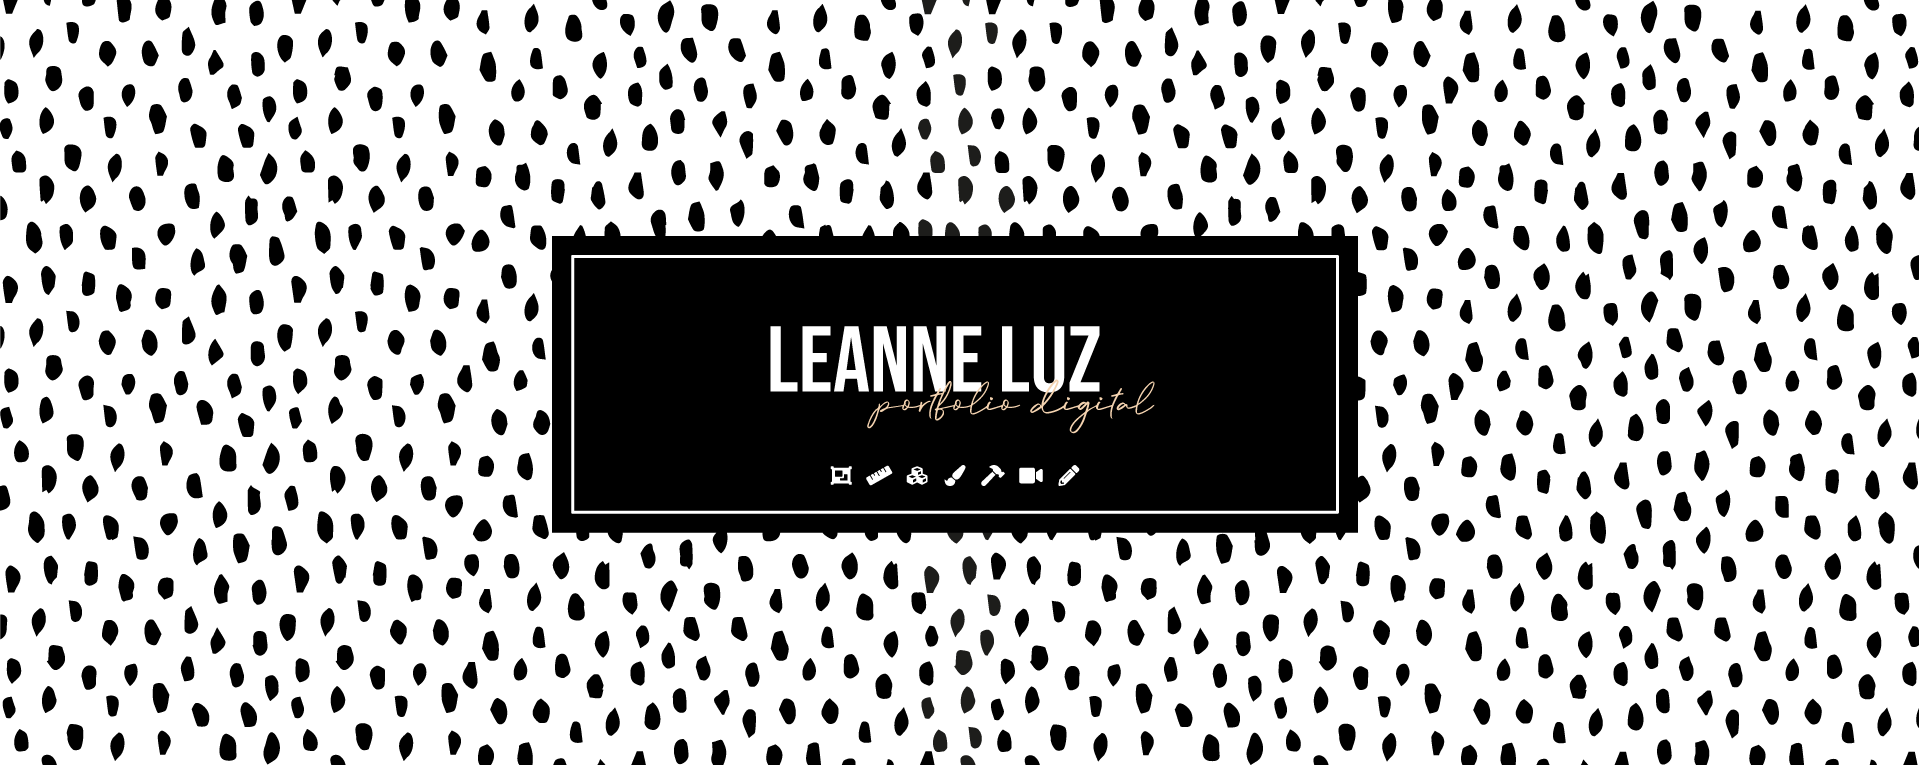
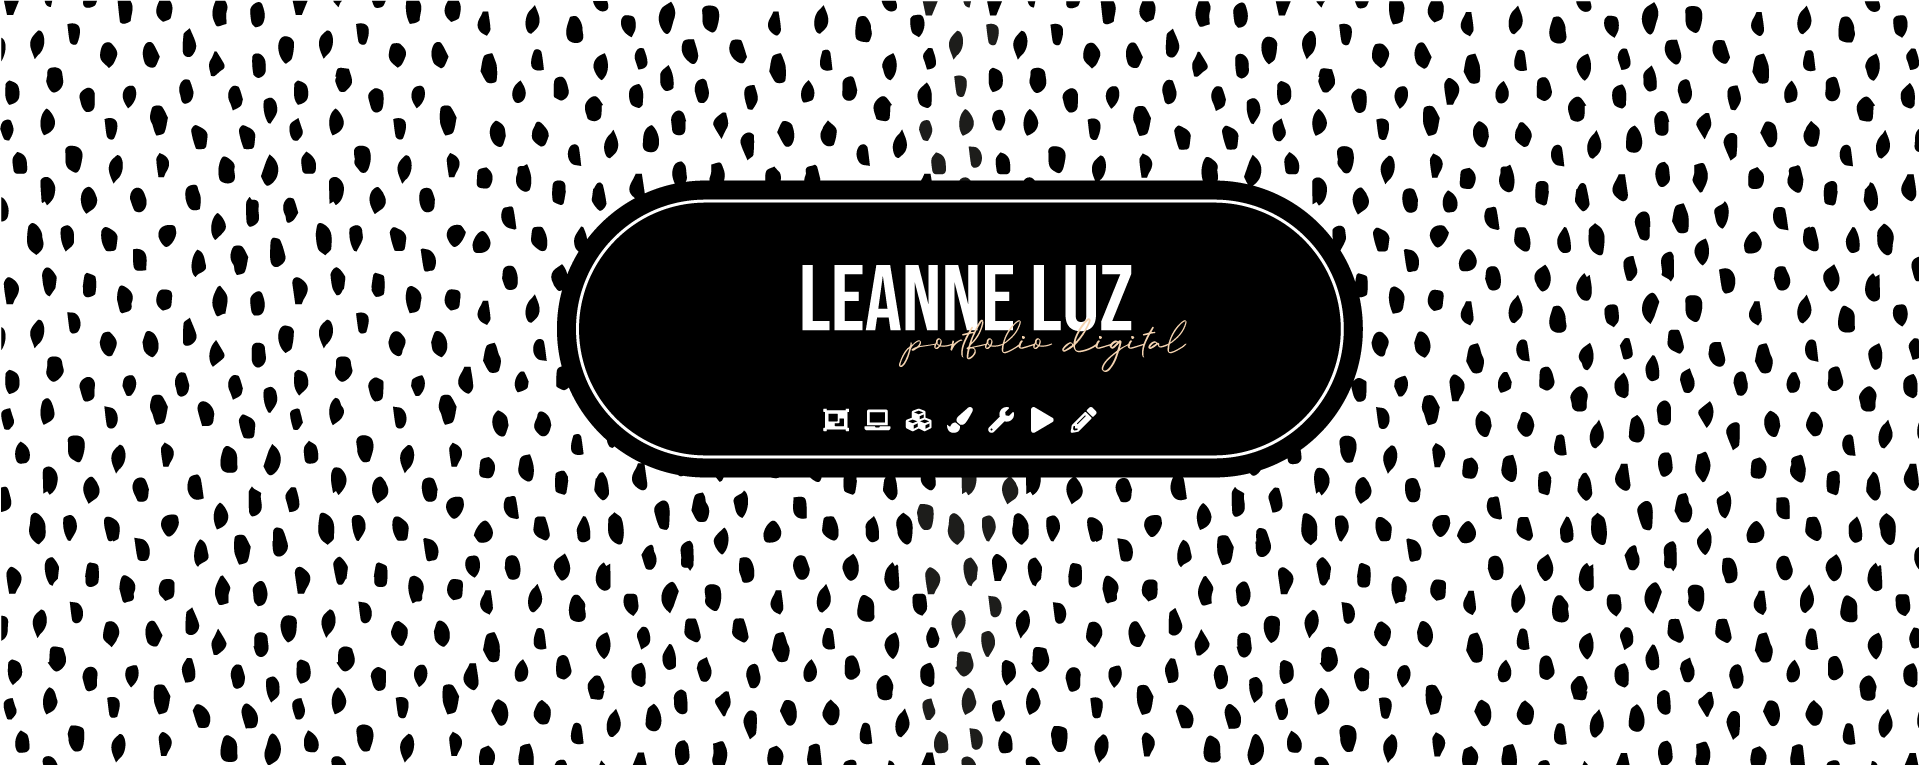
cenas

diff --git a/index.html b/index.html
@@ -36,12 +36,12 @@
 						<nav id="nav">
 							<ul>
 								<li><a href="#top" id="top-link"><span class="icon fa-home">Intro</span></a></li>
-								<li><a href="#graphic_design"><span class="icon fa-th">Design Gráfico</span></a></li>
-								<li><a href="#product_design"><span class="icon fa-th">Design Producto</span></a></li>
-								<li><a href="#3d_modelation"><span class="icon fa-th">Modelação 3D</span></a></li>
-								<li><a href="#paiting"><span class="icon fa-th">Pintura</span></a></li>
-								<li><a href="#sculpture"><span class="icon fa-th">Escultura</span></a></li>
-								<li><a href="#video"><span class="icon fa-th">Vídeo</span></a></li>
+								<li><a href="#graphic_design"><span class="icon fa-object-group">Design Gráfico</span></a></li>
+								<li><a href="#product_design"><span class="icon fa-laptop">Design Producto</span></a></li>
+								<li><a href="#3d_modelation"><span class="icon fa-cubes">Modelação 3D</span></a></li>
+								<li><a href="#paiting"><span class="icon fa-paint-brush">Pintura</span></a></li>
+								<li><a href="#sculpture"><span class="icon fa-wrench">Escultura</span></a></li>
+								<li><a href="#video"><span class="icon fa-play">Vídeo</span></a></li>
 								<li><a href="#contact" id="contact-link"><span class="icon fa-envelope">Contacto</span></a></li>
 
 								<!--	<li><a href="#portfolio" id="portfolio-link"><span class="icon fa-th">Portfolio</span></a></li>-->
@@ -96,13 +96,14 @@
 						<div class="container">
 
 							<header>
-								<h2>Design Gráfico</h2>
+
+								<h2><strong style="color:#F4D3B0"><span class="icon fa-object-group"></spam></strong></h2> <br><h2><strong style="color:black">Design Gráfico</strong></h2>
 							</header>
 
 							<div style="line-height: 1.2;" align="left">
-								<strong style="color:black">FROFRO icream</strong>
+								<strong style="color:black">FROFRO Icream</strong>
 								<br>
-								<strong class="subTitle">[maio 2018]</strong>
+								<a style="font-size:14pt;">Branding e Gestão da Marca - maio 2018</a>
 								<br>
 								<br>
 								<strong class="subTitle">briefing//</strong>
@@ -133,7 +134,7 @@
 							<div class="row">
 								<div class="col-4 col-12-mobile">
 									<article class="item">
-										<a class="image fit"><img class="myImg" onclick="imagePopup(this, 'Ipsum Feugiat')" src="images/frofro/Mupi.png" alt="" /></a>
+										<a class="image fit"><img class="myImg" onclick="imagePopup(this, 'Ipsum Feugiat')" src="images/frofro/PACKAGING_final.png" alt="" /></a>
 										<header>
 											<h3>Ipsum Feugiat</h3>
 										</header>
@@ -147,7 +148,7 @@
 								</div>
 								<div class="col-4 col-12-mobile">
 									<article class="item">
-										<a href="#" class="image fit"><img class="myImg" onclick="imagePopup(this, 'Rhoncus Semper')" src="images/frofro/Outdoor.png" alt="" /></a>
+										<a href="#" class="image fit"><img class="myImg" onclick="imagePopup(this, 'Rhoncus Semper')" src="images/frofro/Mupi.png" alt="" /></a>
 										<header>
 											<h3>Magna Nullam</h3>
 										</header>
@@ -161,18 +162,11 @@
 								</div>
 								<div class="col-4 col-12-mobile">
 									<article class="item">
-										<a href="#" class="image fit"><img class="myImg" onclick="imagePopup(this, 'Rhoncus Semper')" src="images/pic06.jpg" alt="" /></a>
+										<a href="#" class="image fit"><img class="myImg" onclick="imagePopup(this, 'Rhoncus Semper')" src="images/frofro/Mupi.png" alt="" /></a>
 										<header>
 											<h3>Dolor Penatibus</h3>
 										</header>
 									</article>
-									<article class="item">
-										<a href="#" class="image fit"><img class="myImg" onclick="imagePopup(this, 'Rhoncus Semper')" src="images/pic07.jpg" alt="" /></a>
-										<header>
-											<h3>Orci Convallis</h3>
-										</header>
-									</article>
-								</div>
 							</div>
 
 						</div>

diff --git a/assets/css/main.css b/assets/css/main.css
@@ -174,10 +174,7 @@ input, select, textarea {
 		outline: 0;
 	}
 
-		a:hover {
-			color: #E27689;
-			border-bottom-color: rgba(255, 255, 255, 0);
-		}
+
 
 	sub {
 		position: relative;
@@ -1968,7 +1965,7 @@ input, select, textarea {
 		input[type="reset"]:hover,
 		button:hover,
 		.button:hover {
-			background-color: #9ececc;
+			background-color: #F7B981;
 		}
 
 		input[type="button"]:active,
@@ -2157,7 +2154,7 @@ input, select, textarea {
 				}
 
 					#nav ul li a.active span:before {
-						color: #e27689;
+						color: #F4D3B0;
 					}
 
 /* Footer */
@@ -2202,7 +2199,6 @@ input, select, textarea {
 			padding: 4em 0;
 			box-shadow: inset 0 1px 0 0 rgba(0, 0, 0, 0.05), inset 0 0.1em 0.1em 0 rgba(0, 0, 0, 0.025);
 			text-align: center;
-			background-image: url("images/overlay.png");
 		}
 
 			#main > section.dark {
@@ -2240,15 +2236,15 @@ input, select, textarea {
 			}
 
 			#main > section.two {
-				background-color: #f5fafa;
+				background-color: white;
 			}
 
 			#main > section.three {
-				background-color: #ecf1f1;
+				background-color: white;
 			}
 
 			#main > section.four {
-				background-color: #e8edec;
+				background-color: white;
 			}
 
 /* Wide */
